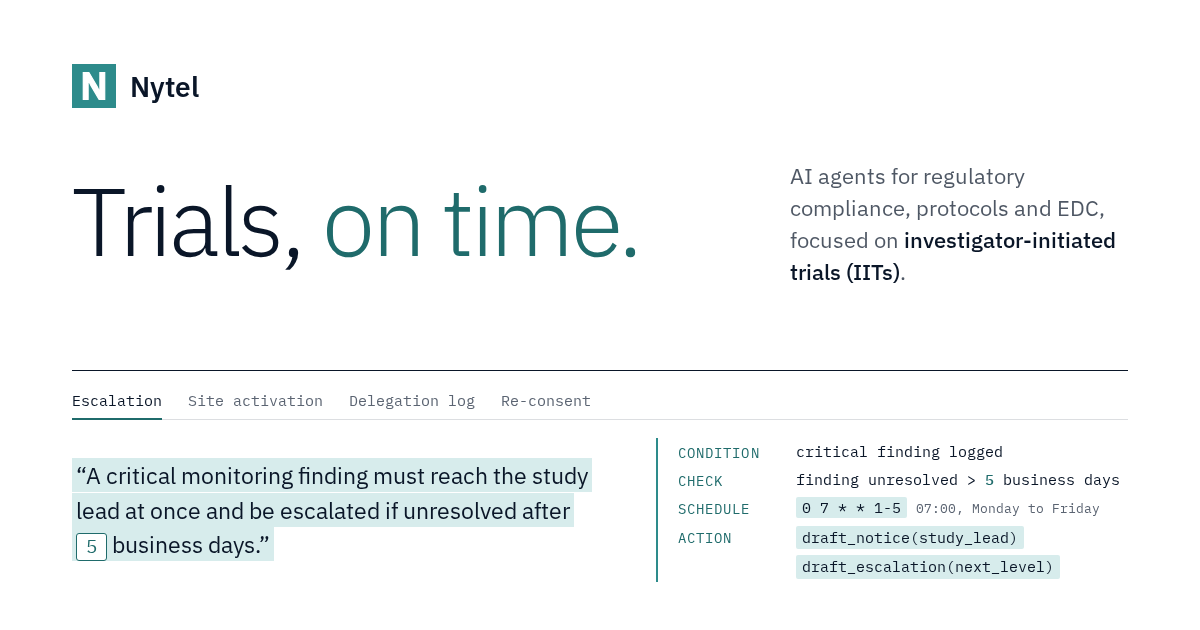
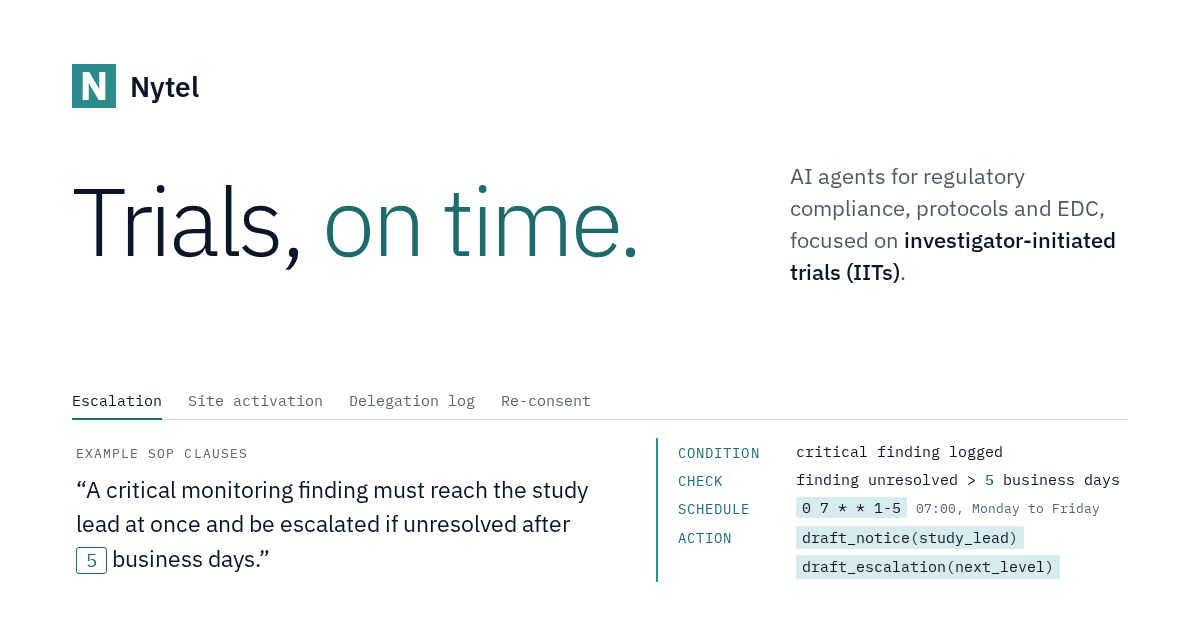
Cleaner layout: no section dividers or in-section rules, hairline style, SOP clause label below tabs, aligned team columns

Changed region(s): [[0.0617, 0.6937, 0.4933, 0.9048]]

diff --git a/style.css b/style.css
@@ -1,10 +1,10 @@
 /* Nytel home, "Compiler" / SOP-IR specimen direction. Spacing scale: 4 8 16 24 40 64 104 */
 :root { --s1:4px; --s2:8px; --s3:16px; --s4:24px; --s5:40px; --s6:64px; --s7:104px;
-  --rule:rgba(10,22,40,.14); --hl:#D7ECEC; --ease:.25s cubic-bezier(.4,0,.2,1); }
+  --hl:#D7ECEC; --ease:.25s cubic-bezier(.4,0,.2,1); }
 * { margin:0; padding:0; box-sizing:border-box; }
 @media (prefers-reduced-motion: no-preference) { html { scroll-behavior:smooth; } }
 body { font-family:var(--sans); color:var(--navy); background:#fff; line-height:1.6; font-size:17px; -webkit-font-smoothing:antialiased; -moz-osx-font-smoothing:grayscale; font-synthesis:none; text-rendering:optimizeLegibility; }
-a { color:var(--teal-dark); text-underline-offset:3px; transition:color var(--ease), background-color var(--ease); }
+a { color:var(--teal-dark); text-underline-offset:3px; }
 h1,h2,h3 { text-wrap:balance; } p { text-wrap:pretty; }
 main:focus { outline:none; }
 .wrap { max-width:1120px; margin:0 auto; padding:0 var(--s5); }
@@ -28,18 +28,16 @@ h1 .accent { color:var(--teal-dark); }
 .k { font-size:12px; letter-spacing:.08em; text-transform:uppercase; color:var(--muted); margin-bottom:var(--s3); }
 figcaption { margin-top:var(--s4); font-size:12px; letter-spacing:.02em; color:var(--muted); }
 
-@keyframes hl { from { background-size:0% 100%; } to { background-size:100% 100%; } }
 @keyframes resolve { from { clip-path:inset(0 100% 0 0); transform:translateY(3px); } to { clip-path:inset(0 0 0 0); transform:none; } }
 
 /* Editorial sections */
-section { border-top:1px solid var(--rule); padding:var(--s6) 0 var(--s7); }
+section { padding:80px 0 var(--s7); } /* no section-to-section lines: spacing and the h2 separate sections */
 h2 { font-weight:300; font-size:clamp(30px, 1.3rem + 1.6vw, 44px); line-height:1.1; letter-spacing:-.025em; margin-bottom:var(--s5); }
 #cta-h { margin-bottom:var(--s3); }
 .tag { font-size:11px; letter-spacing:.1em; text-transform:uppercase; color:var(--teal-dark); vertical-align:middle; margin-left:var(--s3); white-space:nowrap; }
 .tag::before { content:"[ "; } .tag::after { content:" ]"; }
 
-.groups { display:grid; grid-template-columns:repeat(3,minmax(0,1fr)); gap:0 var(--s5); }
-.group { border-top:1px solid var(--navy); padding-top:var(--s3); }
+.groups { display:grid; }
 .group h3 { font-size:12px; font-weight:500; letter-spacing:.08em; text-transform:uppercase; color:var(--teal-dark); margin-bottom:var(--s3); }
 .group ul { list-style:none; }
 .group li { padding:var(--s2) 0 var(--s3); }
@@ -50,8 +48,7 @@ h2 { font-weight:300; font-size:clamp(30px, 1.3rem + 1.6vw, 44px); line-height:1
 .more a { display:inline-flex; align-items:center; min-height:44px; font-weight:500; }
 
 
-.people { list-style:none; display:grid; grid-template-columns:1fr 1fr; gap:var(--s5); max-width:900px; }
-.people li { border-top:1px solid var(--navy); padding-top:var(--s3); }
+.people { list-style:none; display:grid; max-width:900px; }
 .people h3 { font-size:22px; font-weight:400; letter-spacing:-.01em; margin-bottom:var(--s2); }
 .role { font-size:12px; letter-spacing:.08em; color:var(--teal-dark); margin-left:var(--s2); vertical-align:middle; }
 .people p { color:var(--muted); font-size:15px; max-width:44ch; }
@@ -62,15 +59,11 @@ h2 { font-weight:300; font-size:clamp(30px, 1.3rem + 1.6vw, 44px); line-height:1
 .audience { font-size:13px; letter-spacing:.04em; color:var(--muted); margin:0 0 var(--s5); }
 footer { font-size:12px; }
 
-@media (max-width: 860px) {
-  .groups { grid-template-columns:1fr; gap:var(--s4); }
-  .people { grid-template-columns:1fr; }
-}
 @media (max-width: 720px) {
   .wrap { padding:0 var(--s4); }
   .hero { padding:var(--s6) 0 var(--s5); }
   .lead { margin-bottom:var(--s5); }
-  section { padding:var(--s5) 0 var(--s6); }
+  section { padding:56px 0 var(--s6); }
 }
 @media (max-width: 560px) {
   header.site .wrap { flex-wrap:wrap; padding:var(--s2) var(--s3) 0; gap:0; }
@@ -82,19 +75,16 @@ footer { font-size:12px; }
 .hero-top { display:grid; grid-template-columns:minmax(0,1.25fr) minmax(0,1fr); gap:var(--s5) 120px; align-items:end; margin-bottom:var(--s6); }
 .hero-top h1 { margin-bottom:0; }
 .hero-top .lead { margin-bottom:6px; }
-.hero { padding-top:var(--s6); }
-.groups { grid-template-columns:repeat(4,minmax(0,1fr)); }
 .group.wide { grid-column:span 2; }
 .group.wide ul { display:grid; grid-template-columns:1fr 1fr; gap:0 var(--s5); }
 .spread { display:grid; grid-template-columns:1fr 1fr; gap:var(--s5) var(--s6); }
-.spread .people { grid-template-columns:1fr; gap:var(--s4); }
+.spread .people { grid-template-columns:1fr; gap:var(--s5); } /* no rules between people/partners: spacing separates them */
 .spread h2 { margin-bottom:var(--s4); }
 @media (max-width: 860px) {
-  .groups { grid-template-columns:1fr; } .group.wide { grid-column:auto; }
-  .spread { grid-template-columns:1fr; }
+  .spread { grid-template-columns:1fr; row-gap:64px; } /* stacked: Partners starts a new group, 64px vs 40px between people */
 }
 @media (max-width: 720px) {
-  .hero-top { grid-template-columns:1fr; gap:var(--s4); margin-bottom:var(--s5); }
+  .hero-top { grid-template-columns:1fr; gap:var(--s4); margin-bottom:36px; }
   .k { margin-bottom:var(--s2); }
   .group.wide ul { grid-template-columns:1fr; }
 }
@@ -105,28 +95,29 @@ footer { font-size:12px; }
 }
 
 /* Marketing pass: agents row full width, one-line short descriptions on desktop */
-.groups { grid-template-columns:repeat(2,minmax(0,1fr)); gap:var(--s5) var(--s5); }
+.groups { grid-template-columns:repeat(2,minmax(0,1fr)); gap:var(--s5) var(--s5); } /* no rules between groups: 40px gap + the last item's 16px padding = 56px between groups, vs 24px between items in a group (about 2.3x) */
 .group.wide { grid-column:1 / -1; }
 .ds-full { display:none; }
 .ds-short { white-space:nowrap; overflow:hidden; text-overflow:clip; }
 @media (max-width: 860px) { .ds-short { display:none; } .ds-full { display:block; } }
-@media (max-width: 860px) { .groups { grid-template-columns:1fr; gap:var(--s4); } }
+@media (max-width: 860px) { .groups { grid-template-columns:1fr; gap:32px; } } /* 32 + 16 = 48px between groups vs 24px within (2x) */
 
 
 /* Whitepaper (static whitepaper.html): 700px reading measure, same tokens as the home page */
 .whitepaper { max-width:700px; margin:0 auto; padding:var(--s7) 0 var(--s6); }
-.whitepaper .wp-head { border-bottom:0; padding-bottom:var(--s5); }
+.whitepaper .wp-head { padding-bottom:var(--s5); }
 .whitepaper .wp-head .k { font-size:12px; letter-spacing:.08em; text-transform:uppercase; color:var(--teal-dark); margin-bottom:var(--s3); }
 .whitepaper h1 { font-size:clamp(34px, 1.4rem + 2.4vw, 56px); line-height:1.05; letter-spacing:-.03em; margin-bottom:var(--s4); }
 .whitepaper .wp-sub { font-family:var(--mono); font-size:13px; letter-spacing:.06em; text-transform:uppercase; color:var(--muted); }
-.whitepaper h2 { font-size:clamp(26px, 1.1rem + 1.2vw, 34px); line-height:1.15; letter-spacing:-.02em; margin:var(--s6) 0 var(--s4); padding-top:var(--s4); border-top:1px solid var(--rule); }
+.whitepaper h2 { font-size:clamp(26px, 1.1rem + 1.2vw, 34px); line-height:1.15; letter-spacing:-.02em; margin:64px 0 var(--s4); } /* no rule: spacing and the heading mark each section, as on the home page */
+@media (max-width: 720px) { .whitepaper h2 { margin-top:56px; } } /* after the base rule so it wins the cascade */
 .whitepaper h3 { font-weight:500; font-size:19px; margin:var(--s5) 0 var(--s3); }
 .whitepaper p { color:var(--muted); line-height:1.7; margin-bottom:var(--s4); }
 .whitepaper li { color:var(--muted); }
 .whitepaper strong { color:var(--navy); font-weight:500; }
 .table-scroll { overflow-x:auto; margin:var(--s4) 0 var(--s5); -webkit-overflow-scrolling:touch; }
 .table-scroll:focus-visible { outline:2px solid var(--teal-dark); outline-offset:3px; }
-.whitepaper table { width:100%; border-collapse:collapse; font-size:15px; border-top:1px solid var(--navy); }
+.whitepaper table { width:100%; border-collapse:collapse; font-size:15px; border-top:1px solid var(--rule); }
 .whitepaper caption { caption-side:top; text-align:left; font-family:var(--mono); font-size:12px; color:var(--muted); padding:0 0 var(--s2); }
 .whitepaper th, .whitepaper td { text-align:left; vertical-align:top; padding:var(--s2) var(--s3) var(--s2) 0; border-bottom:1px solid var(--rule); }
 .whitepaper th { font-family:var(--mono); font-size:11px; font-weight:500; text-transform:uppercase; letter-spacing:.08em; color:var(--teal-dark); }
@@ -144,7 +135,7 @@ footer { font-size:12px; }
 /* Hero spacing at desktop widths */
 @media (min-width: 721px) {
   .hero { padding:var(--s5) 0 var(--s5); }
-  .hero-top { margin-bottom:var(--s5); }
+  .hero-top { margin-bottom:56px; }
 }
 
 /* How it works: "Line" (stations on the hero's teal hairline). The human-review branch sits inside the Agents station. */
@@ -176,17 +167,19 @@ footer { font-size:12px; }
 
 /* CTA: "Outlined pair". Two equal outlined controls (replaces .actions/.btn/.quiet) */
 .cta-pair { display:grid; grid-template-columns:repeat(2, minmax(0, 240px)); gap:var(--s3); }
-.cta-pair a { display:flex; align-items:center; justify-content:center; min-height:48px; padding:0 var(--s4); border:1px solid var(--teal-dark); color:var(--teal-dark); background:transparent; font-family:var(--mono); font-size:13px; font-weight:500; letter-spacing:.08em; text-transform:uppercase; text-decoration:none; transition:background-color var(--ease); }
+.cta-pair a { display:flex; align-items:center; justify-content:center; min-height:48px; padding:0 var(--s4); border:1px solid var(--teal-dark); color:var(--teal-dark); background:transparent; font-family:var(--mono); font-size:13px; font-weight:500; letter-spacing:.08em; text-transform:uppercase; text-decoration:none; }
 .cta-pair a:hover { background:rgba(215,236,236,.6); }
 .cta-pair a:focus-visible { outline:2px solid var(--teal-dark); outline-offset:2px; }
 .cta-who { margin-top:var(--s3); font-family:var(--mono); font-size:13px; color:var(--muted); }
 @media (max-width: 720px) { .cta-pair { grid-template-columns:1fr; } }
 
 /* Hero: clause 4 leads; topic tabs (APG) switch the example; N is a live input. All panels share one grid cell, so the height is constant. */
-.hx { margin:0; border-top:1px solid var(--navy); padding-top:var(--s4); }
-.hx .k { margin-bottom:var(--s3); }
-.hx-tabs { display:flex; flex-wrap:wrap; gap:0 var(--s4); margin-bottom:var(--s4); border-bottom:1px solid var(--rule); }
-.hx-tabs [role=tab] { all:unset; box-sizing:border-box; cursor:pointer; font-family:var(--mono); font-size:13px; letter-spacing:.02em; color:var(--muted); min-height:44px; padding:var(--s2) 0; border-bottom:2px solid transparent; margin-bottom:-1px; transition:color var(--ease), border-color var(--ease); }
+.hx { margin:0; } /* no rule above the label: whitespace (.hero-top margin) separates the headline block from the example block */
+/* The label is an eyebrow above the clause: it shares the panels' grid cell, top-left, and the clause is padded down to clear it (label 18px + 10px gap). It also names the tablist (aria-labelledby). */
+.hx-stage > .k { grid-area:1 / 1; align-self:start; justify-self:start; margin:0; line-height:18px; position:relative; z-index:1; pointer-events:none; }
+.hx-clause { padding-top:28px; }
+.hx-tabs { display:flex; flex-wrap:wrap; gap:0 var(--s4); margin-bottom:20px; border-bottom:1px solid var(--rule); }
+.hx-tabs [role=tab] { all:unset; box-sizing:border-box; cursor:pointer; font-family:var(--mono); font-size:13px; letter-spacing:.02em; color:var(--muted); min-height:44px; padding:var(--s2) 0; border-bottom:2px solid transparent; margin-bottom:-1px; }
 .hx-tabs [role=tab][aria-selected="true"] { color:var(--navy); border-bottom-color:var(--teal-dark); }
 .hx-tabs [role=tab]:hover { color:var(--navy); }
 .hx-tabs [role=tab]:focus-visible { outline:2px solid var(--teal-dark); outline-offset:2px; }
@@ -195,10 +188,9 @@ footer { font-size:12px; }
 .hx-ex[data-off] { visibility:hidden; }
 .hx-clause { margin:0; }
 .hx-clause p { font-size:clamp(19px, 1rem + .6vw, 24px); line-height:1.45; color:var(--navy); text-wrap:pretty; }
-.hx-clause mark { background:linear-gradient(var(--hl),var(--hl)) no-repeat 0 0 / 100% 100%; color:inherit; padding:1px 0; box-decoration-break:clone; -webkit-box-decoration-break:clone; }
 .hx-rule { border-left:2px solid var(--teal); padding:var(--s1) 0 var(--s1) var(--s4); font-family:var(--mono); }
 .hx-rule dl > div { display:grid; grid-template-columns:96px minmax(0,1fr); gap:var(--s3); padding:var(--s2) 0; font-size:14px; line-height:1.5; }
-.hx-rule dl > div + div { border-top:1px dashed var(--rule); }
+.hx-rule dl > div + div { border-top:1px solid var(--rule); }
 .hx-rule dt { color:var(--teal-dark); text-transform:uppercase; letter-spacing:.08em; font-size:12px; padding-top:2px; }
 .hx-rule dd { margin:0; color:var(--navy); text-wrap:pretty; }
 .n-chip { display:inline-block; vertical-align:baseline; padding:6px; margin:-6px -6px; cursor:text; } /* 44x44 tap area around the 32x32 chip; tapping the label focuses the input */
@@ -211,11 +203,10 @@ footer { font-size:12px; }
 /* Rule panel: cron chip + gloss (wraps under the chip when narrow), and quiet technical detailing */
 .hx-rule { background:linear-gradient(90deg, rgba(215,236,236,.35), rgba(215,236,236,0) 70%); padding-right:var(--s3); font-variant-numeric:tabular-nums; }
 .hx-rule dd.sched { display:flex; flex-wrap:wrap; align-items:baseline; gap:2px var(--s2); }
-.hx-rule code { font-family:var(--mono); font-size:14px; color:var(--navy); background:var(--hl); padding:1px 6px; border-radius:2px; white-space:nowrap; cursor:help; }
+.hx-rule code { font-family:var(--mono); font-size:14px; color:var(--navy); background:var(--hl); padding:1px 6px; border-radius:2px; white-space:nowrap; }
 .gloss { color:var(--muted); font-size:13px; }
 .hx figcaption { margin-top:var(--s4); }
 @media (prefers-reduced-motion: no-preference) {
-  .hx-ex:not([data-off]) .hx-clause mark { animation:hl .9s .5s ease-out both; }
   .hx-ex.in .hx-rule dl > div { animation:resolve .45s ease-out both; } .hx-ex.in .hx-rule dl > div:nth-child(2) { animation-delay:.08s; } .hx-ex.in .hx-rule dl > div:nth-child(3) { animation-delay:.16s; } .hx-ex.in .hx-rule dl > div:nth-child(4) { animation-delay:.24s; }
 }
 @media (min-width: 721px) and (max-width: 1100px) { .hx-ex { column-gap:var(--s5); } }
@@ -226,7 +217,19 @@ footer { font-size:12px; }
 }
 /* ACTION values as command chips (same tint as the cron chip); the verbatim action text is screen-reader text plus a title */
 .hx-rule dd.acts { display:flex; flex-wrap:wrap; gap:var(--s1) var(--s2); align-items:baseline; }
-.hx-rule dd.acts code { cursor:help; }
 .sr-only { position:absolute; width:1px; height:1px; padding:0; margin:-1px; overflow:hidden; clip:rect(0 0 0 0); white-space:nowrap; border:0; }
 /* At 1100px and below, every rule row stacks its label above its value, so values get the full panel width */
 @media (max-width: 1100px) { .hx-rule dl > div { grid-template-columns:1fr; gap:2px; } }
+/* Co-founders / Partners: when side by side, both columns share the parent's rows (subgrid), so item N sits on the same row in both columns. DOM order is unchanged. */
+@media (min-width: 861px) {
+  .spread { row-gap:var(--s5); grid-template-rows:auto repeat(var(--pair-rows, 2), auto); }
+  .spread > .pair-col { display:grid; grid-row:1 / span calc(var(--pair-rows, 2) + 1); grid-template-rows:subgrid; }
+  .spread > .pair-col > h2 { margin-bottom:0; }
+  .spread > .pair-col > .people { display:grid; grid-row:2 / span var(--pair-rows, 2); grid-template-rows:subgrid; gap:inherit; }
+}
+/* Motion: every transition is gated, like the animations above; with reduced motion nothing transitions */
+@media (prefers-reduced-motion: no-preference) {
+  a { transition:color var(--ease), background-color var(--ease); }
+  .cta-pair a { transition:background-color var(--ease); }
+  .hx-tabs [role=tab] { transition:color var(--ease), border-color var(--ease); }
+}

diff --git a/index.html b/index.html
@@ -7,23 +7,23 @@
   <meta name="description" content="AI agents for regulatory compliance, protocols and EDC, focused on investigator-initiated trials (IITs).">
   <meta property="og:title" content="Nytel — Trials, on time.">
   <meta property="og:description" content="AI agents for regulatory compliance, protocols and EDC, focused on investigator-initiated trials (IITs).">
-  <meta property="og:image" content="https://nytel.ai/og-image.png?v=2026-11-01e">
+  <meta property="og:image" content="https://nytel.ai/og-image.png?v=2026-11-01g">
   <meta property="og:url" content="https://nytel.ai/">
   <meta property="og:type" content="website">
   <link rel="canonical" href="https://nytel.ai/">
   <meta name="twitter:card" content="summary_large_image">
   <meta name="twitter:title" content="Nytel — Trials, on time.">
   <meta name="twitter:description" content="AI agents for regulatory compliance, protocols and EDC, focused on investigator-initiated trials (IITs).">
-  <meta name="twitter:image" content="https://nytel.ai/og-image.png?v=2026-11-01e">
+  <meta name="twitter:image" content="https://nytel.ai/og-image.png?v=2026-11-01g">
   <link rel="icon" type="image/svg+xml" href="favicon.svg">
   <link rel="icon" type="image/png" sizes="32x32" href="favicon-32.png">
   <link rel="apple-touch-icon" href="apple-touch-icon.png">
   <link rel="preload" href="fonts/ibm-plex-sans-latin-400-normal.woff2" as="font" type="font/woff2" crossorigin>
   <link rel="preload" href="fonts/ibm-plex-sans-latin-300-normal.woff2" as="font" type="font/woff2" crossorigin>
   <link rel="preload" href="fonts/ibm-plex-mono-latin-400-normal.woff2" as="font" type="font/woff2" crossorigin>
-  <link rel="stylesheet" href="fonts.css?v=2026-11-01e">
-  <link rel="stylesheet" href="chrome.css?v=2026-11-01e">
-  <link rel="stylesheet" href="style.css?v=2026-11-01e">
+  <link rel="stylesheet" href="fonts.css?v=2026-11-01g">
+  <link rel="stylesheet" href="chrome.css?v=2026-11-01g">
+  <link rel="stylesheet" href="style.css?v=2026-11-01g">
   <script type="application/ld+json">
   {
     "@context": "https://schema.org",
@@ -31,7 +31,7 @@
     "name": "Nytel",
     "url": "https://nytel.ai",
     "logo": "https://nytel.ai/logo.svg",
-    "image": "https://nytel.ai/og-image.png?v=2026-11-01e",
+    "image": "https://nytel.ai/og-image.png?v=2026-11-01g",
     "slogan": "Trials, on time.",
     "description": "Nytel builds AI agents for regulatory compliance, protocols and EDC, focused on investigator-initiated trials (IITs). The same agents serve CROs, sponsors and other trials.",
     "email": "contact@nytel.ai",
@@ -76,11 +76,11 @@
   <div class="hero-top"><h1>Trials, <span class="accent">on time.</span></h1>
   <p class="lead">AI agents for regulatory compliance, protocols and EDC, focused on <strong>investigator-initiated trials (IITs)</strong>.</p></div>
   <figure class="hx" aria-labelledby="spec-cap">
-   <p class="k" id="spec-k">Example SOP clauses</p>
    <div class="hx-tabs" role="tablist" aria-labelledby="spec-k"><button type="button" role="tab" id="hx-t3" aria-controls="hx-p3" aria-selected="true" tabindex="0">Escalation</button><button type="button" role="tab" id="hx-t0" aria-controls="hx-p0" aria-selected="false" tabindex="-1">Site activation</button><button type="button" role="tab" id="hx-t1" aria-controls="hx-p1" aria-selected="false" tabindex="-1">Delegation log</button><button type="button" role="tab" id="hx-t2" aria-controls="hx-p2" aria-selected="false" tabindex="-1">Re-consent</button></div>
    <div class="hx-stage">
+    <p class="k" id="spec-k">Example SOP clauses</p>
     <div class="hx-ex" role="tabpanel" id="hx-p3" aria-labelledby="hx-t3">
-     <blockquote class="hx-clause"><p>“<mark>A critical monitoring finding must reach the study lead at once and be escalated if unresolved after <span class="n-keep"><label class="n-chip"><input class="n-in" id="hx-n" type="number" inputmode="numeric" min="1" max="30" step="1" value="5" aria-label="N, configurable, in business days"></label>&nbsp;business days.</span></mark>”</p></blockquote>
+     <blockquote class="hx-clause"><p>“A critical monitoring finding must reach the study lead at once and be escalated if unresolved after <span class="n-keep"><label class="n-chip"><input class="n-in" id="hx-n" type="number" inputmode="numeric" min="1" max="30" step="1" value="5" aria-label="N, configurable, in business days"></label>&nbsp;business days.</span>”</p></blockquote>
      <div class="hx-rule"><dl>
       <div><dt>CONDITION</dt><dd>critical finding logged</dd></div>
       <div><dt>CHECK</dt><dd>finding unresolved &gt; <span class="n-keep"><span class="n-mirror" data-n-mirror>5</span>&nbsp;business days</span></dd></div>
@@ -89,7 +89,7 @@
      </dl></div>
     </div>
     <div class="hx-ex" role="tabpanel" id="hx-p0" aria-labelledby="hx-t0" data-off>
-     <blockquote class="hx-clause"><p>“<mark>No site shall be initiated or receive investigational product until every required essential document is collected, reviewed, and the readiness checklist is signed off.</mark>”</p></blockquote>
+     <blockquote class="hx-clause"><p>“No site shall be initiated or receive investigational product until every required essential document is collected, reviewed, and the readiness checklist is signed off.”</p></blockquote>
      <div class="hx-rule"><dl>
       <div><dt>CONDITION</dt><dd>site initiation or drug shipment requested</dd></div>
       <div><dt>CHECK</dt><dd>essential documents on file; readiness checklist signed</dd></div>
@@ -97,7 +97,7 @@
      </dl></div>
     </div>
     <div class="hx-ex" role="tabpanel" id="hx-p1" aria-labelledby="hx-t1" data-off>
-     <blockquote class="hx-clause"><p>“<mark>For IND studies, every sub-investigator on Form 1572 must appear on the delegation log, and delegated investigator-level staff must appear on the current 1572.</mark>”</p></blockquote>
+     <blockquote class="hx-clause"><p>“For IND studies, every sub-investigator on Form 1572 must appear on the delegation log, and delegated investigator-level staff must appear on the current 1572.”</p></blockquote>
      <div class="hx-rule"><dl>
       <div><dt>CONDITION</dt><dd>1572 or delegation log changes (IND study)</dd></div>
       <div><dt>CHECK</dt><dd>1572 sub-investigators on the log, and the reverse</dd></div>
@@ -105,7 +105,7 @@
      </dl></div>
     </div>
     <div class="hx-ex" role="tabpanel" id="hx-p2" aria-labelledby="hx-t2" data-off>
-     <blockquote class="hx-clause"><p>“<mark>When a revised consent form receives IRB approval, participants the IRB requires to re-consent must sign that version before further study procedures.</mark>”</p></blockquote>
+     <blockquote class="hx-clause"><p>“When a revised consent form receives IRB approval, participants the IRB requires to re-consent must sign that version before further study procedures.”</p></blockquote>
      <div class="hx-rule"><dl>
       <div><dt>CONDITION</dt><dd>revised consent form approved, or any consent signed</dd></div>
       <div><dt>CHECK</dt><dd>each active participant the IRB requires signed the current version</dd></div>
@@ -165,13 +165,13 @@
  </div></section>
 
  <section class="s-people" aria-label="Co-founders · Partners"><div class="wrap">
-  <div class="body spread">
-   <div><h2 id="team-h">Co-founders</h2>
+  <div class="body spread" style="--pair-rows:2">
+   <div class="pair-col"><h2 id="team-h">Co-founders</h2>
    <ul class="people">
     <li><h3>Vadim Sokolov <span class="role">CSO</span></h3><p>GMU systems engineering professor; Bayesian trial design; agent-based simulation (Argonne)</p></li>
     <li><h3>Matthew Wamsley <span class="role">CEO</span></h3><p>AI/automation engineer; supported clinical trials and Epic go-lives at Texas Health Resources</p></li>
    </ul></div>
-   <div><h2 id="partners-h">Partners</h2>
+   <div class="pair-col"><h2 id="partners-h">Partners</h2>
    <ul class="people partners">
     <li><h3><a href="https://www.pcctc.org/about/" rel="noopener">PCCTC</a></h3><p>Prostate Cancer Clinical Trials Consortium</p></li>
     <li><h3><a href="https://poeticphase1.org" rel="noopener">POETIC</a></h3><p>Pediatric Oncology Experimental Therapeutics Investigators’ Consortium · Stanford</p></li>

diff --git a/whitepaper.html b/whitepaper.html
@@ -7,23 +7,23 @@
   <meta name="description" content="SOP-IR: Compiling SOPs and Protocols into a Verified, Executable Graph: Architecture, Integration, and Operational Design.">
   <meta property="og:title" content="SOP-IR: Compiling SOPs and Protocols into a Verified, Executable Graph">
   <meta property="og:description" content="SOP-IR: Compiling SOPs and Protocols into a Verified, Executable Graph: Architecture, Integration, and Operational Design.">
-  <meta property="og:image" content="https://nytel.ai/og-image.png?v=2026-11-01e">
+  <meta property="og:image" content="https://nytel.ai/og-image.png?v=2026-11-01g">
   <meta property="og:url" content="https://nytel.ai/whitepaper.html">
   <meta property="og:type" content="article">
   <link rel="canonical" href="https://nytel.ai/whitepaper.html">
   <meta name="twitter:card" content="summary_large_image">
   <meta name="twitter:title" content="SOP-IR: Compiling SOPs and Protocols into a Verified, Executable Graph">
   <meta name="twitter:description" content="SOP-IR: Compiling SOPs and Protocols into a Verified, Executable Graph: Architecture, Integration, and Operational Design.">
-  <meta name="twitter:image" content="https://nytel.ai/og-image.png?v=2026-11-01e">
+  <meta name="twitter:image" content="https://nytel.ai/og-image.png?v=2026-11-01g">
   <link rel="icon" type="image/svg+xml" href="favicon.svg">
   <link rel="icon" type="image/png" sizes="32x32" href="favicon-32.png">
   <link rel="apple-touch-icon" href="apple-touch-icon.png">
   <link rel="preload" href="fonts/ibm-plex-sans-latin-400-normal.woff2" as="font" type="font/woff2" crossorigin>
   <link rel="preload" href="fonts/ibm-plex-sans-latin-300-normal.woff2" as="font" type="font/woff2" crossorigin>
   <link rel="preload" href="fonts/ibm-plex-mono-latin-400-normal.woff2" as="font" type="font/woff2" crossorigin>
-  <link rel="stylesheet" href="fonts.css?v=2026-11-01e">
-  <link rel="stylesheet" href="chrome.css?v=2026-11-01e">
-  <link rel="stylesheet" href="style.css?v=2026-11-01e">
+  <link rel="stylesheet" href="fonts.css?v=2026-11-01g">
+  <link rel="stylesheet" href="chrome.css?v=2026-11-01g">
+  <link rel="stylesheet" href="style.css?v=2026-11-01g">
 </head>
 <body>
 <a class="skip" href="#main">Skip to content</a>

diff --git a/chrome.css b/chrome.css
@@ -10,7 +10,7 @@
   --teal: #2D8B8B;
   --teal-dark: #1F6B6B;
   --muted: rgba(10, 22, 40, 0.72);
-  --border: rgba(10, 22, 40, 0.10);
+  --rule: #E3E7EC;   /* the one hairline colour for every divider on both pages (about navy at 11%) */
   /* --sans and --mono are defined in fonts.css (loaded before this file; do not redefine here) */
 }
 
@@ -22,7 +22,7 @@
 .skip:focus { transform: none; top: .5rem; }
 
 /* Header and nav */
-header { border-bottom: 1px solid var(--border); }
+header { border-bottom: 1px solid var(--rule); }
 header .wrap { display: flex; align-items: center; justify-content: space-between; min-height: 4rem; gap: 1rem; }
 .logo { display: flex; align-items: center; gap: .5rem; text-decoration: none; color: var(--navy); font-weight: 600; font-size: 1.25rem; letter-spacing: -.01em; min-height: 44px; }
 .logo img { width: 28px; height: 28px; border-radius: 5px; }
@@ -40,7 +40,7 @@ nav a[aria-current=page] { color: var(--teal-dark); font-weight: 600; }
 /* The one button style: dark-teal fill */
 
 /* Footer */
-footer { border-top: 1px solid var(--border); padding: 2rem 0; font-size: .875rem; color: var(--muted); }
+footer { border-top: 1px solid var(--rule); padding: 2rem 0; font-size: .875rem; color: var(--muted); }
 footer .wrap { display: flex; justify-content: space-between; flex-wrap: wrap; gap: .5rem 1.5rem; align-items: center; }
 
 /* 44px tap targets for text links */
